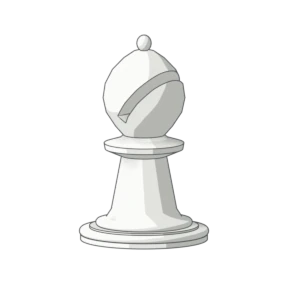
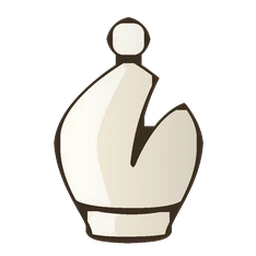
Pieces from california silhouettes restyled with thin outlines and soft shading; more saturated board
Pieces derived from 'california' by Jerry S. (CC BY-NC-SA 4.0), credited in the app footer and pieces/LICENSE.md.

Changed region(s): [[0.1875, 0.0625, 0.8125, 0.9688]]

diff --git a/index.html b/index.html
@@ -17,7 +17,7 @@
     --bg1:#e8f5ff; --bg2:#fff6e8; --card:#fff; --ink:#2d2a3e; --muted:#7a7590; --line:#ece6f5;
     --accent:#ff7a3d; --accent-d:#e5602a; --accent2:#fff0e6;
     --ok:#2fa968; --ok2:#e6f8ee; --warn:#e2453c; --warn2:#ffecea; --blue:#4a8cff;
-    --light:#dccfb0; --dark:#7f9455;
+    --light:#e2c98f; --dark:#6f9440;
     --bs:max(250px,min(calc(100vw - 16px),560px,calc(100svh - 290px)));
   }
   *{box-sizing:border-box;-webkit-tap-highlight-color:transparent}
@@ -33,6 +33,8 @@
   .who{border:0;background:#fff;border-radius:99px;padding:6px 12px 6px 6px;display:flex;align-items:center;gap:6px;font-weight:800;font-size:15px;color:var(--ink);box-shadow:0 3px 0 var(--line),0 4px 12px rgba(80,60,140,.08);cursor:pointer}
 .topr{display:flex;align-items:center;gap:8px}
   .snd{border:0;background:#fff;border-radius:50%;width:40px;height:40px;font-size:18px;cursor:pointer;box-shadow:0 3px 0 var(--line),0 4px 12px rgba(80,60,140,.08)}
+  .credit{text-align:center;font-size:11px;color:var(--muted);padding:14px 16px calc(14px + env(safe-area-inset-bottom))}
+  .credit a{color:inherit}
   .who .av{width:32px;height:32px;border-radius:50%;display:grid;place-items:center;font-size:20px;background:var(--accent2)}
   nav{max-width:1060px;margin:8px auto 0;padding:0 14px;display:grid;grid-template-columns:repeat(5,1fr);gap:6px}
   nav button{border:0;background:#fff;border-radius:16px;padding:6px 4px 7px;cursor:pointer;color:var(--muted);font-weight:800;font-size:13px;
@@ -63,7 +65,7 @@
 
   /* board */
   .board{width:var(--bs);height:var(--bs);display:grid;grid-template-columns:repeat(8,1fr);grid-template-rows:repeat(8,1fr);border-radius:16px;
-    border:5px solid #5f7040;box-shadow:0 6px 0 #4a5832,0 12px 28px rgba(40,80,30,.25);user-select:none;-webkit-user-select:none;touch-action:manipulation}
+    border:5px solid #557330;box-shadow:0 6px 0 #42592a,0 12px 28px rgba(40,80,30,.25);user-select:none;-webkit-user-select:none;touch-action:manipulation}
   .board{position:relative}
   .matbox{display:flex;align-items:center;gap:8px 14px;flex-wrap:wrap;background:#fff;border-radius:16px;padding:6px 12px;box-shadow:0 3px 0 var(--line);animation:pop .25s}
   .matgrp{display:flex;align-items:center;gap:4px}
@@ -94,11 +96,11 @@
   .sq .pc{position:absolute;left:0;right:0;bottom:0;width:auto;height:100%;z-index:1;background:none;filter:none;font-size:inherit}
   .sq .pc::before{content:"";position:absolute;left:calc(50% - var(--sw,.58)*50%);width:calc(var(--sw,.58)*100%);bottom:calc(17% - var(--sw,.58)*6%);height:calc(var(--sw,.58)*12%);
     border-radius:50%;background:radial-gradient(closest-side,rgba(30,40,20,.42),rgba(30,40,20,.18) 60%,transparent);transition:transform .25s cubic-bezier(.175,.885,.32,1.275),opacity .25s}
-  .sq .pc::after{content:"";position:absolute;inset:0;background:var(--img) center/100% 100% no-repeat;transform-origin:50% 83%;
+  .sq .pc::after{content:"";position:absolute;inset:0;background:var(--img) center/100% 100% no-repeat;transform-origin:50% 92%;
     transition:transform .25s cubic-bezier(.175,.885,.32,1.275)}
   .sq.sel .pc{z-index:3}
-  .sq.sel .pc::after{transform:translateY(-9%) scale(1.06)}
-  .sq.sel .pc::before{transform:scale(.72);opacity:.55}
+  .sq .pc::before{display:none}
+  .sq.sel .pc::after{transform:translateY(-7%) scale(1.07);filter:drop-shadow(0 calc(var(--bs) / 8 * .07) calc(var(--bs) / 8 * .05) rgba(40,30,10,.35))}
   .pc.t-p{--sw:.46}.pc.t-n{--sw:.54}.pc.t-b{--sw:.5}.pc.t-r{--sw:.58}.pc.t-q{--sw:.56}.pc.t-k{--sw:.58}
   .pc.w.t-p{--img:url(pieces/wp.webp)}.pc.w.t-n{--img:url(pieces/wn.webp)}.pc.w.t-b{--img:url(pieces/wb.webp)}.pc.w.t-r{--img:url(pieces/wr.webp)}.pc.w.t-q{--img:url(pieces/wq.webp)}.pc.w.t-k{--img:url(pieces/wk.webp)}
   .pc.b.t-p{--img:url(pieces/bp.webp)}.pc.b.t-n{--img:url(pieces/bn.webp)}.pc.b.t-b{--img:url(pieces/bb.webp)}.pc.b.t-r{--img:url(pieces/br.webp)}.pc.b.t-q{--img:url(pieces/bq.webp)}.pc.b.t-k{--img:url(pieces/bk.webp)}
@@ -111,7 +113,7 @@
   @media (prefers-reduced-motion: reduce){.sq .pc::after,.sq .pc::before{transition:none}.sq.check .pc::after{animation:none}}
   .coord{position:absolute;font-size:10px;font-weight:800;z-index:2;pointer-events:none;opacity:.8}
   .coord.r{top:2px;left:3px}.coord.f{bottom:1px;right:3px}
-  .sq.light .coord{color:#6b7d45}.sq.dark .coord{color:#efe7d3}
+  .sq.light .coord{color:#5e7d33}.sq.dark .coord{color:#f3e6c2}
   .shake{animation:shake .35s}
   @keyframes shake{25%{transform:translateX(-7px)}50%{transform:translateX(7px)}75%{transform:translateX(-3px)}}
   .star{position:absolute;z-index:2;font-size:calc(var(--bs) / 8 * .55);color:#ffc21a;text-shadow:0 2px 0 #e09a00;pointer-events:none;animation:bob 1.4s ease-in-out infinite}
@@ -467,6 +469,7 @@
     </div>
   </section>
 </main>
+<footer class="credit">기물 그림: <a href="https://sites.google.com/view/jerrychess/home" target="_blank" rel="noopener">california</a> (Jerry S.)를 바탕으로 수정 · <a href="https://creativecommons.org/licenses/by-nc-sa/4.0/" target="_blank" rel="noopener">CC BY-NC-SA 4.0</a> · 퍼즐: lichess.org (CC0)</footer>
 
 <!-- 누가 할래요? -->
 <div class="modal" id="profModal">

diff --git a/sw.js b/sw.js
@@ -1,6 +1,6 @@
 // 오프라인용 서비스 워커: 한 번 열어 두면 인터넷이 없어도 열려요.
 // 인터넷이 될 때는 항상 새 버전을 받아 와서 저장하고, 안 되면 저장해 둔 것을 보여 줘요.
-const CACHE = 'chess-v6';
+const CACHE = 'chess-v7';
 const FILES = ['./', './index.html', './manifest.json', './icon-180.png', './icon-192.png', './icon-512.png', ...['p','n','b','r','q','k'].flatMap(t => ['w','b'].map(c => './pieces/' + c + t + '.webp'))];
 
 self.addEventListener('install', e => {

diff --git a/tools/pieces-restyle.py b/tools/pieces-restyle.py
@@ -1,0 +1,61 @@
+# california 실루엣 → 단정한(staunty풍) 표현으로 다시 칠하기
+# 1) 1024px로 래스터화된 원본에서 외곽선/몸통/하이라이트를 색으로 구분
+# 2) 굵은 외곽선을 약 1/3로: 몸통을 외곽선 쪽으로 넓히고, 바깥 실루엣을 조금 깎음
+# 3) 새 팔레트로 칠하고 오른쪽으로 갈수록 살짝 어두워지는 부드러운 명암을 더함
+import sys, os
+import numpy as np
+from PIL import Image, ImageFilter
+
+SRC, OUT = sys.argv[1], sys.argv[2]
+GROW = int(sys.argv[3]) if len(sys.argv) > 3 else 20
+os.makedirs(OUT, exist_ok=True)
+hexrgb = lambda h: np.array([int(h[i:i+2], 16) for i in (1, 3, 5)], float)
+PAL = {
+  'w': {'main': '#f4ecda', 'hi': '#fffdf6', 'line': '#3b2d21'},
+  'b': {'main': '#3a2a22', 'hi': '#6a5240', 'line': '#0f0a08'},
+}
+
+def mask_img(m): return Image.fromarray((m*255).astype(np.uint8))
+def arr(im): return np.array(im) > 127
+
+for f in sorted(os.listdir(SRC)):
+    if not f.endswith('.png'): continue
+    c = f[0]; im = np.array(Image.open(os.path.join(SRC, f)).convert('RGBA')).astype(float)
+    a = im[..., 3] > 127; lum = im[..., :3].mean(-1)
+    if c == 'w': hi = a & (lum > 230); main = a & (lum > 150) & ~hi
+    else:        hi = a & (lum > 102); main = a & (lum > 45) & ~hi
+    line = a & ~hi & ~main
+    # 몸통·하이라이트를 외곽선 안쪽으로 넓히기(2px씩 반복해서 가까운 쪽 색을 따라가게)
+    for _ in range(GROW // 2):
+        hd = arr(mask_img(hi).filter(ImageFilter.MaxFilter(5)))
+        md = arr(mask_img(main).filter(ImageFilter.MaxFilter(5)))
+        nh = line & hd; nm = line & md & ~nh
+        hi |= nh; main |= nm; line &= ~(nh | nm)
+    # 바깥 실루엣을 GROW만큼 깎아 바깥 외곽선도 가늘게
+    sil = arr(mask_img(a).filter(ImageFilter.MinFilter(2*GROW+1)))
+    # 부드러운 명암: 기물 폭 기준 왼쪽 밝고 오른쪽 살짝 어둡게
+    ys, xs = np.nonzero(sil); x0, x1 = xs.min(), xs.max()
+    gx = np.clip((np.arange(im.shape[1]) - x0) / max(1, x1 - x0), 0, 1)
+    shade = 1 - 0.13 * (gx ** 1.6)
+    out = np.zeros((*a.shape, 4))
+    P = {k: hexrgb(v) for k, v in PAL[c].items()}
+    for m, col in ((main, P['main']), (hi, P['hi']), (line, P['line'])):
+        out[m, :3] = col
+    body = main | hi
+    out[body, :3] *= shade[None, :].repeat(a.shape[0], 0)[body][:, None]
+    out[..., 3] = sil * 255
+    img = Image.fromarray(np.clip(out, 0, 255).astype(np.uint8), 'RGBA')
+    img.resize((256, 256), Image.LANCZOS).save(os.path.join(OUT, f[0] + f[1].lower() + '.png'))
+    print('ok', f)
+
+# 12개 모두 같은 비율로 키우기: 전체를 감싸는 상자 하나로 똑같이 잘라 상대 크기는 그대로
+ims = {f: Image.open(os.path.join(OUT, f)) for f in os.listdir(OUT) if f.endswith('.png')}
+bbs = [im.getbbox() for im in ims.values()]
+x0 = min(b[0] for b in bbs); y0 = min(b[1] for b in bbs); x1 = max(b[2] for b in bbs); y1 = max(b[3] for b in bbs)
+side = max(x1 - x0, y1 - y0); cx = (x0 + x1) / 2
+box = (int(cx - side/2), y1 - side, int(cx + side/2), y1)
+for f, im in ims.items():
+    c = im.crop(box); S = 256; m = int(S * .05)
+    can = Image.new('RGBA', (S, S)); can.paste(c.resize((S - 2*m, S - 2*m), Image.LANCZOS), (m, m + int(S*.01)))
+    can.save(os.path.join(OUT, f))
+print('crop', box)

diff --git a/pieces/LICENSE.md b/pieces/LICENSE.md
@@ -1,0 +1,8 @@
+# 기물 그림 라이선스
+
+`pieces/*.webp`는 Jerry S.의 **california** 체스 기물 세트(https://sites.google.com/view/jerrychess/home,
+lichess.org에 수록)를 바탕으로 수정한 그림입니다. 외곽선을 가늘게 하고 색과 명암을 새로 칠했어요
+(`tools/pieces-restyle.py`).
+
+- 원작: california © Jerry S. — [CC BY-NC-SA 4.0](https://creativecommons.org/licenses/by-nc-sa/4.0/)
+- 이 수정본도 같은 **CC BY-NC-SA 4.0**(저작자 표시 · 비영리 · 동일조건 변경허락)으로 배포합니다.
